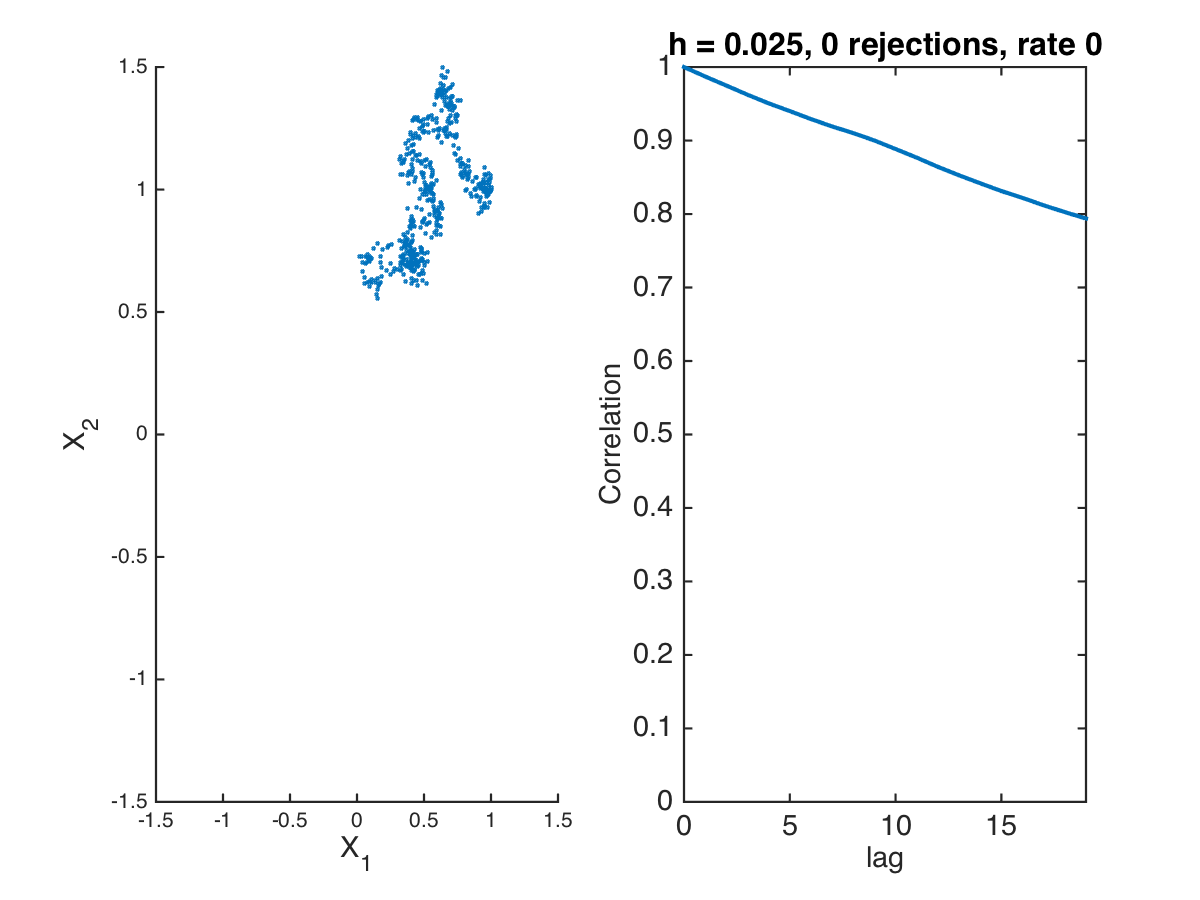
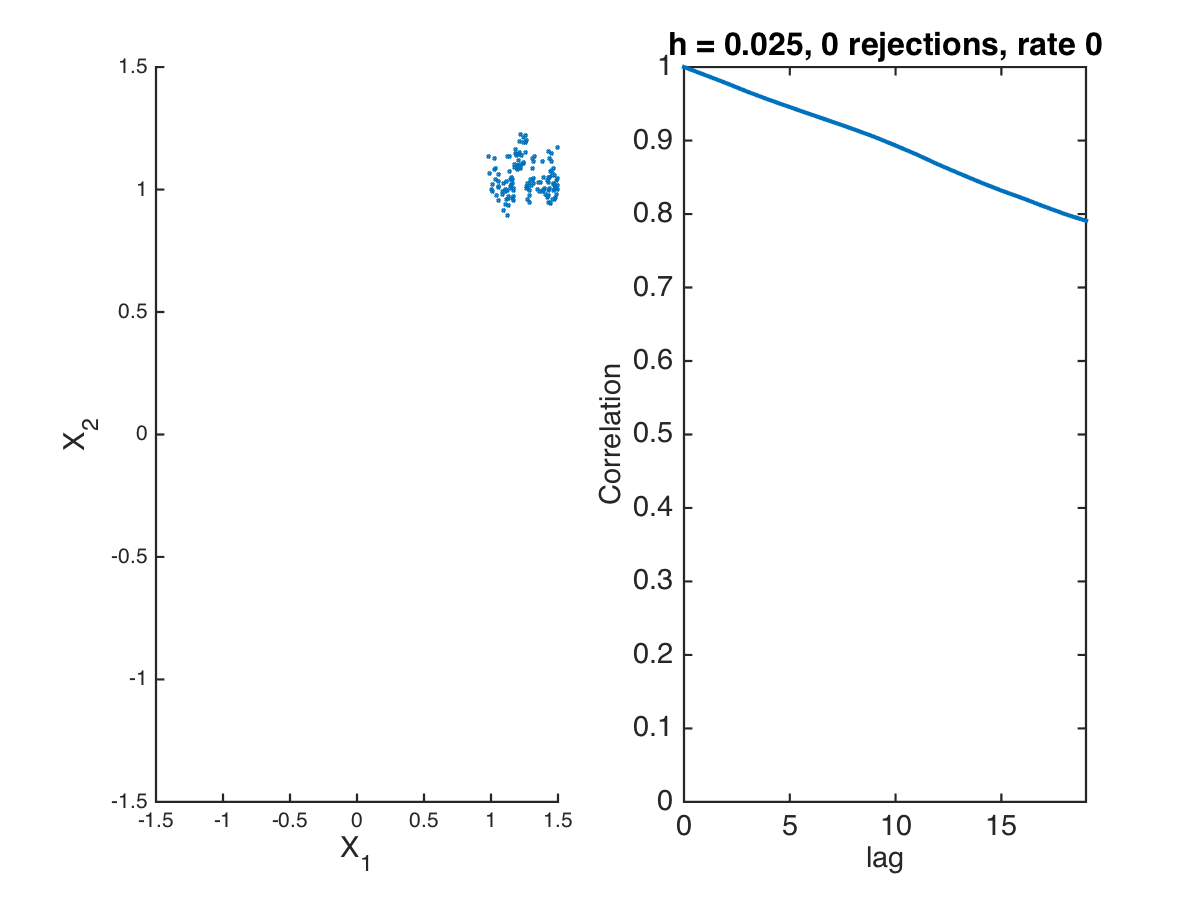
MALA still not working..

diff --git a/Random_walk_metropolis/main6_comparison_RW_MALA_HMC.m b/Random_walk_metropolis/main6_comparison_RW_MALA_HMC.m
@@ -80,39 +80,44 @@ print(f14,'figures/figure14','-dpng')
 %%
 % %% MALA
 % % step size
-% h = 0.1;
-% numberOfSteps = 100;
-% 
-% fprintf('Sampling with MALA\n');
-%  
-% [X, rejections] = sample_MALA(numberOfSteps, h, V, dV , X0);
-%     
-% rho_nu = compute_empirical_auto_correlation_coeff(X(1,:), lag);
-% 
-% %%
-% f12 = figure(12);
-% hold on
-% 
-% subplot(1,2,1)
-% scatter(X(1,:), X(2,:),  2)
-% xlabel('X_1', 'FontSize', myFontSize)
-% ylabel('X_2', 'FontSize', myFontSize)
-% xlim([-1.5, 1.5])
-% ylim([-1.5, 1.5])
-% 
-% 
-% subplot(1,2,2)
-% plot(lag, rho_nu, 'LineWidth', 2)
-% xlabel('lag', 'FontSize', myFontSize)
-% ylabel('Correlation', 'FontSize', myFontSize)
-% %ylim([0,1])
-% xlim([0,max(lag)])
-% title(['h = ', num2str(h),', ',num2str(rejections), ' rejections, rate ', num2str(rejections / length(X))])
-% set(gca, 'FontSize', myFontSize)
-% 
-% 
-% %%
-% print(f12,'figures/figure12','-dpng')
+h = 0.025;
+numberOfSteps = 2000;
+
+fprintf('Sampling with MALA\n');
+ 
+[X, rejections] = sample_MALA(numberOfSteps, h, V, dV , X0);
+    
+rho_nu = compute_empirical_auto_correlation_coeff(X(1,:), lag);
+
+%%
+virial = mean(X.*dV(X)) ;
+confTempMALA = mean(virial');
+fprintf('MALA: configurational temperature is %f\n', confTempMALA );
+
+%%
+f15 = figure(15);
+hold on
+
+subplot(1,2,1)
+scatter(X(1,:), X(2,:),  2)
+xlabel('X_1', 'FontSize', myFontSize)
+ylabel('X_2', 'FontSize', myFontSize)
+xlim([-1.5, 1.5])
+ylim([-1.5, 1.5])
+
+
+subplot(1,2,2)
+plot(lag, rho_nu, 'LineWidth', 2)
+xlabel('lag', 'FontSize', myFontSize)
+ylabel('Correlation', 'FontSize', myFontSize)
+%ylim([0,1])
+xlim([0,max(lag)])
+title(['h = ', num2str(h),', ',num2str(rejections), ' rejections, rate ', num2str(rejections / length(X))])
+set(gca, 'FontSize', myFontSize)
+
+
+%%
+print(f15,'figures/figure15','-dpng')
 
 %% HMC
 % step size

diff --git a/Random_walk_metropolis/functions/TproposalMALA.m b/Random_walk_metropolis/functions/TproposalMALA.m
@@ -1,8 +1,8 @@
 function prop = TproposalMALA(pNew, pOld,  dV, t)
 
 
-     Tx = pNew - pOld + t.*dV(pOld);
-   
-     Tabs = (Tx'*Tx ) / (2 * t);
+     Tx = pNew - pOld + t *dV(pOld);
+     
+     Tabs = (Tx'*Tx ) / (2.0 * t);
      prop =   exp(-Tabs / 2.0);
 end
